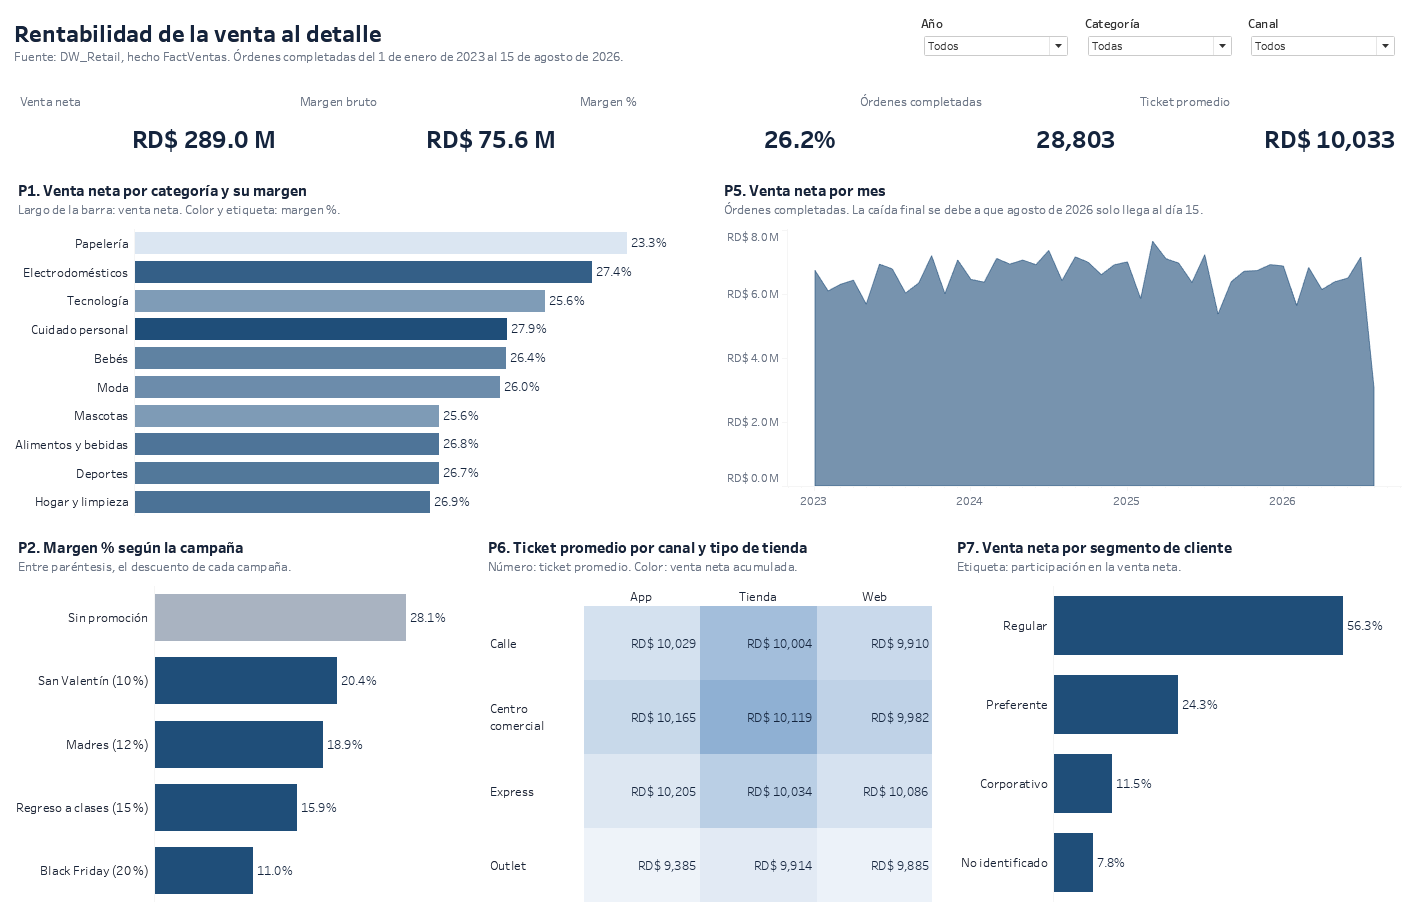
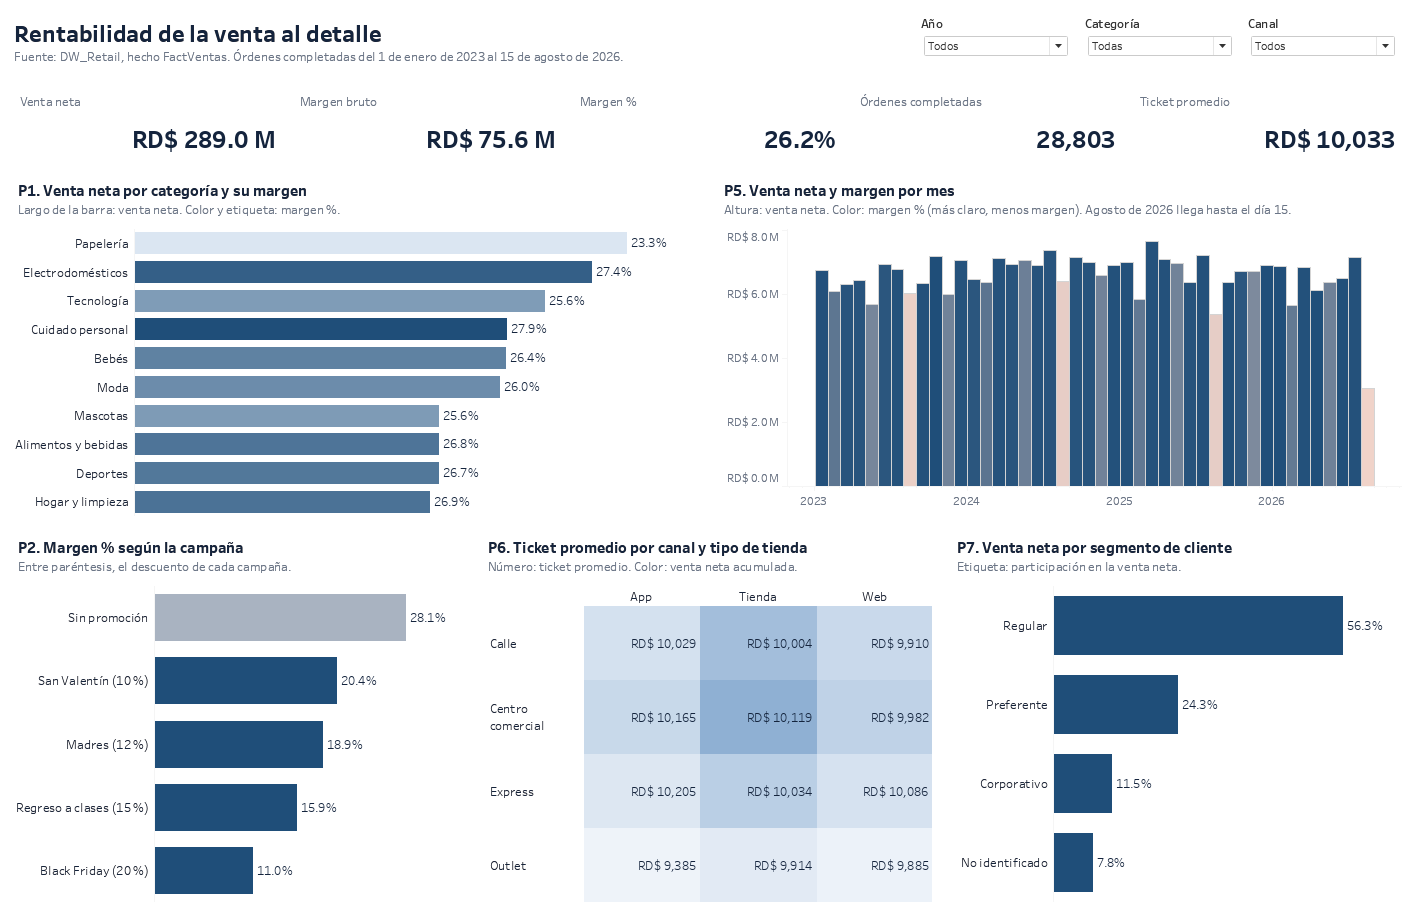
feat(dashboard): venta mensual coloreada por margen para responder P5

Changed region(s): [[0.5593, 0.1834, 0.9944, 0.5502], [0.4972, 0.214, 0.5593, 0.2445]]

diff --git a/6_Generadores/generar_dashboard.py b/6_Generadores/generar_dashboard.py
@@ -517,10 +517,11 @@ def hojas_ventas():
         subtitulo="Largo de la barra: venta neta. Color y etiqueta: margen %.")
 
     h["Mensual"] = hoja(
-        "Mensual", v, "P5. Venta neta por mes", [ventam], [mes], "Area", [],
-        eje_titulo(ventam, "rows", "") + "\n" + eje_titulo(mes, "cols", ""),
-        etiquetas=False, color_marca=AZUL,
-        subtitulo="Órdenes completadas. La caída final se debe a que agosto de 2026 solo llega al día 15.")
+        "Mensual", v, "P5. Venta neta y margen por mes", [ventam], [mes], "Bar", [("color", margen)],
+        eje_titulo(ventam, "rows", "") + "\n" + eje_titulo(mes, "cols", "") + "\n"
+        + degradado(margen, "#f0d3c9", AZUL),
+        etiquetas=False,
+        subtitulo="Altura: venta neta. Color: margen % (más claro, menos margen). Agosto de 2026 llega hasta el día 15.")
 
     h["Promociones"] = hoja(
         "Promociones", v, "P2. Margen % según la campaña", [camp], [margen], "Bar",
